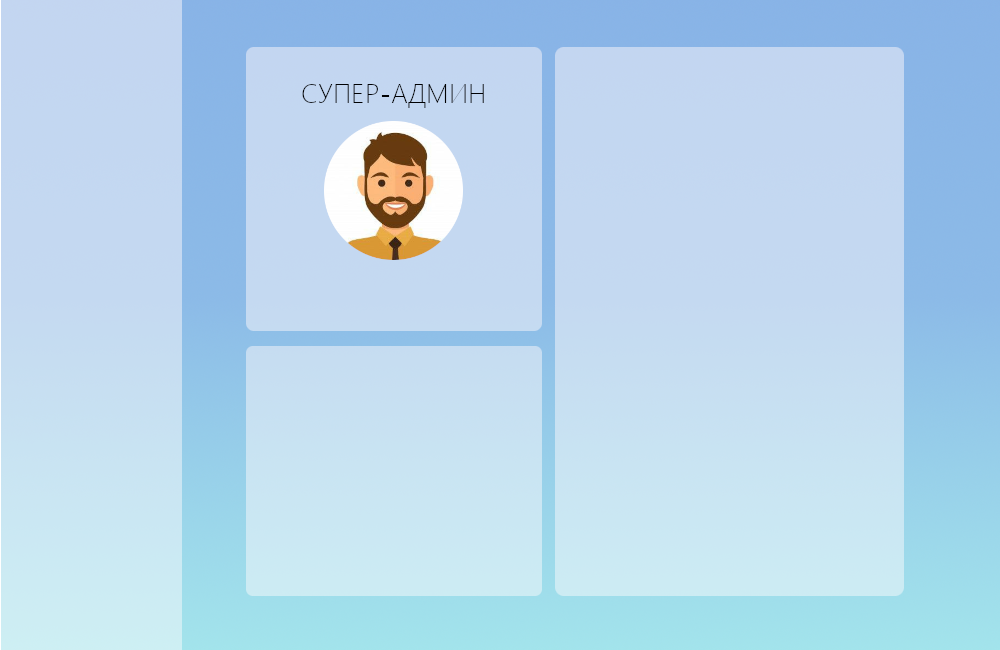
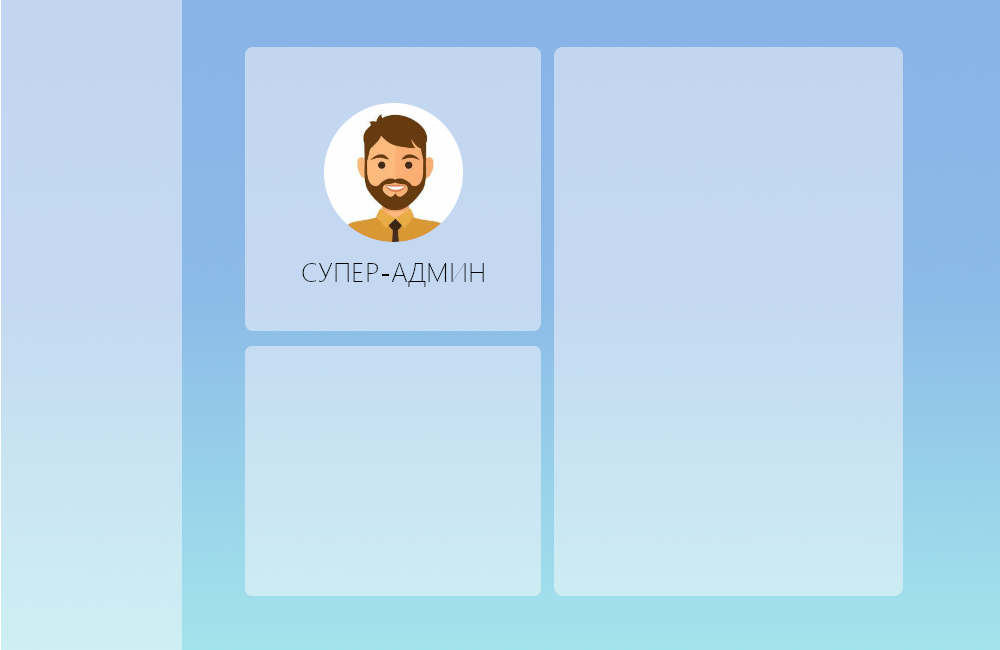
Изменены формы для пользователей

Changed region(s): [[0.31, 0.1231, 0.496, 0.4308]]

diff --git a/src/main/java/Main.java b/src/main/java/Main.java
@@ -35,7 +35,7 @@ public class Main extends Application {
         PauseTransition wait = new PauseTransition(Duration.seconds(0));           // Пауза в программе на 2 секунды
         wait.setOnFinished((e) -> {
             /*YOUR METHOD*/
-            AccountForStudent.WindowStudent();                                                      //Открываем форму после паузы
+            AccountForTeacher.WindowTeacher();                                                      //Открываем форму после паузы
             stage.hide();
         });
         wait.play();
